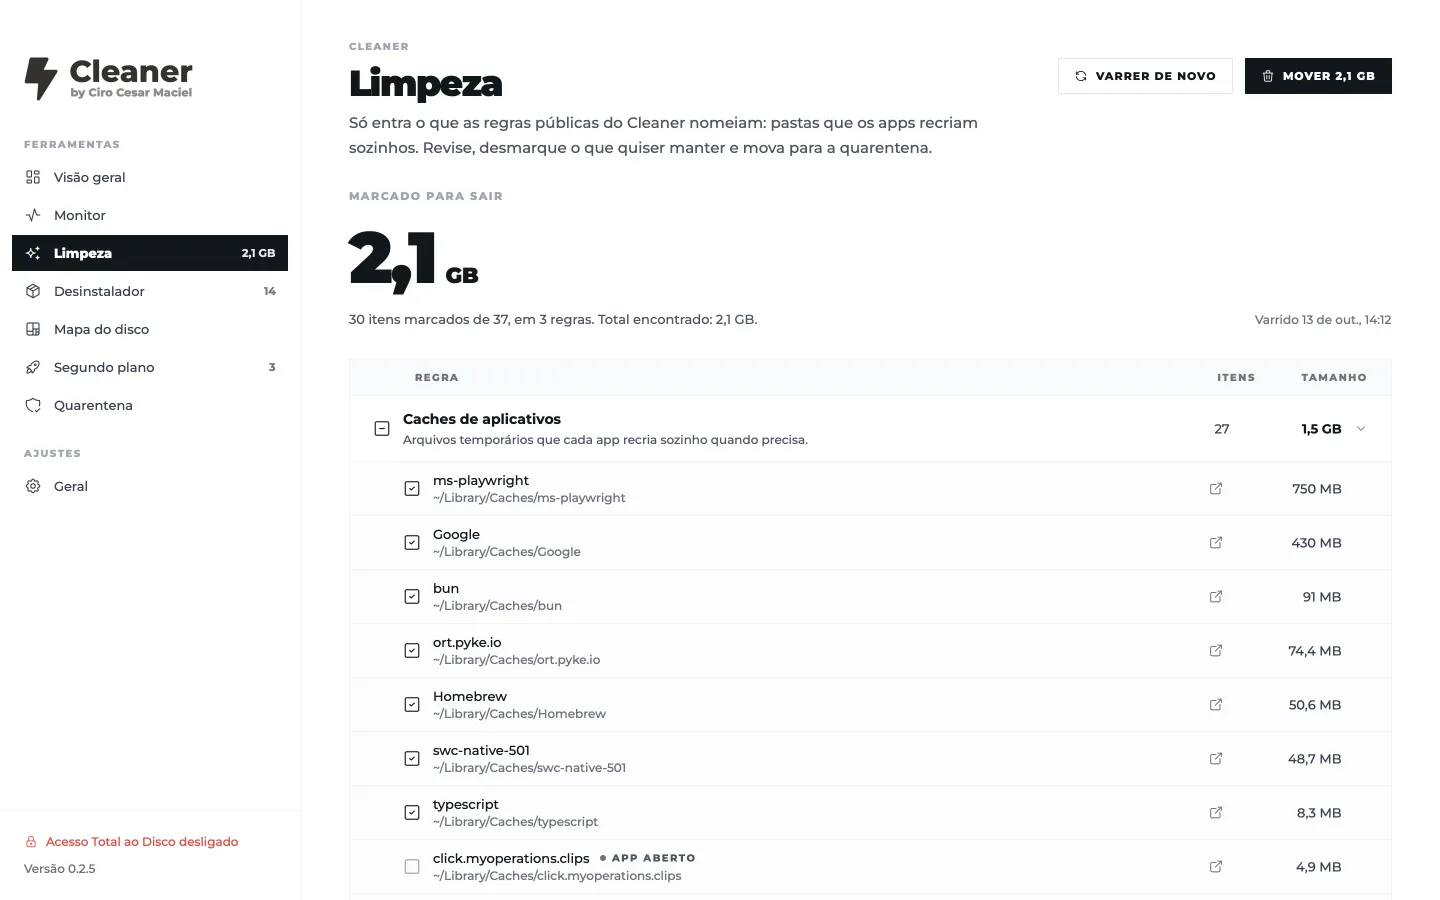
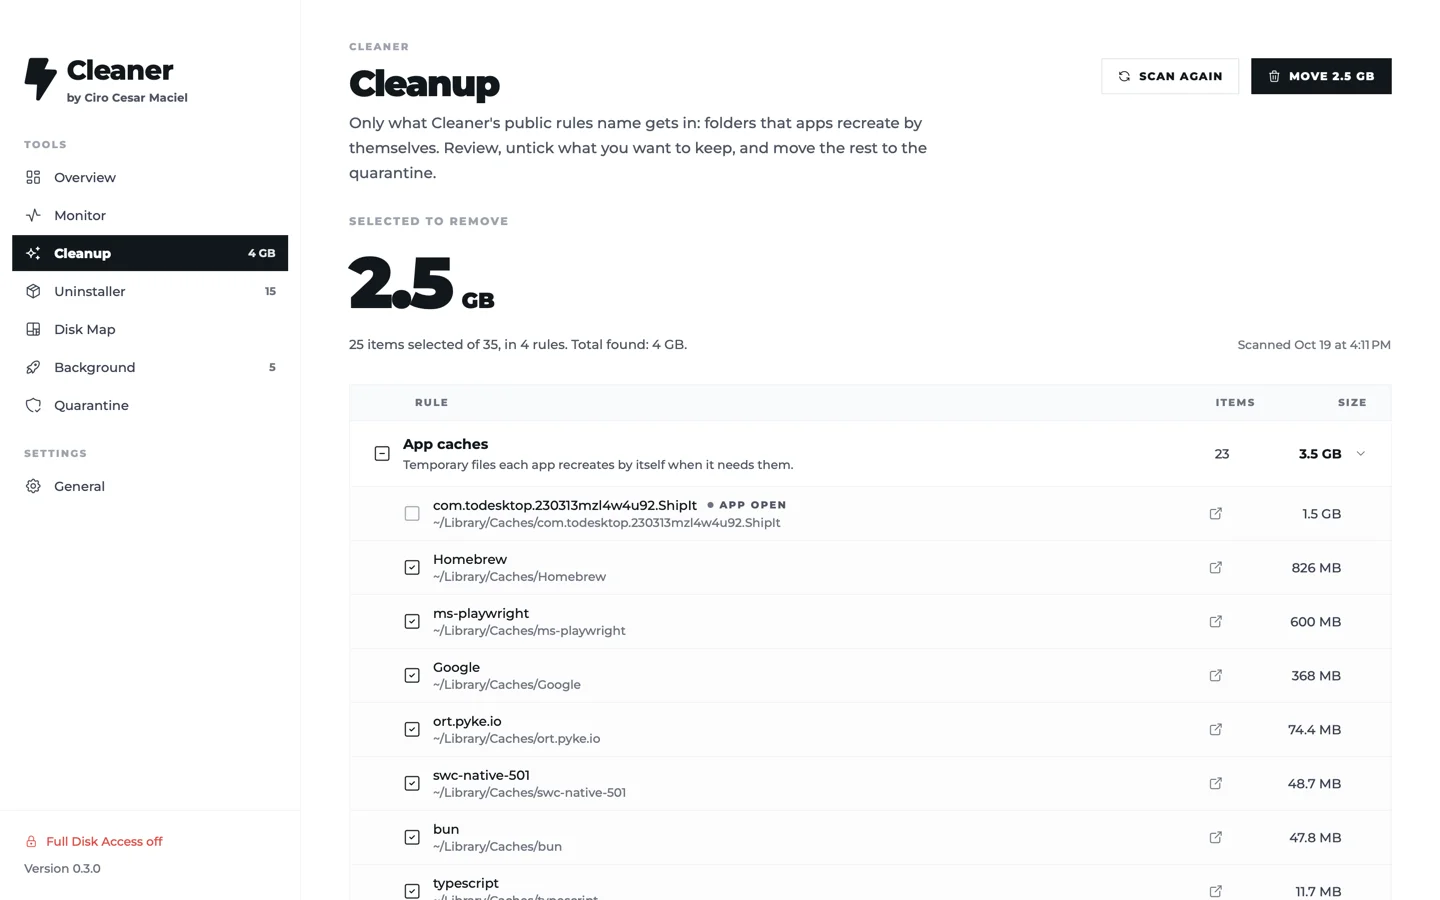
docs: english captures in the readme, portuguese ones in docs/pt-BR, and the two-language rule

diff --git a/README.pt-BR.md b/README.pt-BR.md
@@ -6,7 +6,7 @@ Toda regra que ele usa para limpar está num arquivo que dá para ler, o [`rules
 
 [English](README.md)
 
-![Visão geral do Cleaner: 2,1 GB para liberar, uso do disco e as quatro ferramentas](docs/overview.webp)
+![Visão geral do Cleaner: 4 GB para liberar, uso do disco e as quatro ferramentas](docs/pt-BR/overview.webp)
 
 ## Instalar
 
@@ -31,7 +31,7 @@ Os limpadores conhecidos pedem que você confie num número de "lixo". O Cleaner
   - item do sistema (`EACCES`): pede a senha de administrador uma vez por ação, num pedido que diz o que vai fazer e com quais itens;
   - item protegido (`EPERM`, como Lixeira, Mail, contêineres sem Acesso Total ao Disco ou itens do SIP): nunca pede senha, porque senha não resolveria. O item fica no lugar, e o aviso leva aos Ajustes.
 
-![Limpeza: cada item, a regra que o encontrou e o tamanho](docs/cleanup.webp)
+![Limpeza: cada item, a regra que o encontrou e o tamanho](docs/pt-BR/cleanup.webp)
 
 ## O que ele faz
 
@@ -45,7 +45,7 @@ Os limpadores conhecidos pedem que você confie num número de "lixo". O Cleaner
 | Quarentena | Lotes com o caminho de origem; devolve com um clique; apaga sozinho depois de 7 dias |
 | Barra de menus | Processador, memória, rede, disco e bateria ao vivo, e quanto dá para liberar agora |
 
-<img src="docs/menubar.webp" alt="O painel da barra de menus: processador, memória, rede, disco e bateria" width="300">
+<img src="docs/pt-BR/menubar.webp" alt="O painel da barra de menus: processador, memória, rede, disco e bateria" width="300">
 
 ## A desinstalação completa
 
@@ -94,7 +94,7 @@ dist/Cleaner.app/Contents/MacOS/Cleaner --screenshots /tmp/shots        # captur
 ## Limites
 
 - Só Apple Silicon e macOS 14 ou mais novo.
-- A interface está em português.
+- A interface está em inglês e em português do Brasil, conforme o idioma do Mac.
 - Itens protegidos pelo SIP ficam onde estão. É o macOS funcionando como deve.
 - Não procura duplicados, não faz varredura de malware e não atualiza apps.
 

diff --git a/AGENTS.md b/AGENTS.md
@@ -11,6 +11,7 @@ Cleaner is a native macOS app in Swift and SwiftUI. It is built by `scripts/buil
 | `Sources/Helper/` | The privileged helper (a launchd daemon inside the app bundle) |
 | `Sources/Shared/` | The XPC protocol both sides compile |
 | `rules.json` | The cleanup rules. Copied into the app at build time |
+| `Resources/*.lproj/` | The interface text: `Localizable.strings` (keys are the English text) and `InfoPlist.strings` |
 | `scripts/` | Build, local install, signing identity, asset regeneration |
 | `scripts/release/` | Packing the `.dmg` and publishing it; used by `.github/workflows/release.yml` |
 
@@ -28,4 +29,4 @@ dist/Cleaner.app/Contents/MacOS/Cleaner --uninstall-test
 - Every removal goes to the quarantine, and every removal button is a 3-second hold.
 - `EACCES` asks for the password once per action; `EPERM` never asks, because a password can't fix it.
 - The bundle identifiers (`click.ciromaciel.cleaner`, `click.ciromaciel.cleaner.helper`) never change: macOS ties Full Disk Access to them.
-- The interface text is in Portuguese; code, comments and file names are in English.
+- Every user-facing string exists in English and Brazilian Portuguese (`Resources/en.lproj` / `Resources/pt-BR.lproj`, read through `L("English text")` in `Engine/L10n.swift`); a change that adds text adds both. A rule in `rules.json` carries `title`/`why` in Portuguese and `titleEn`/`whyEn` in English. The app follows the Mac: Portuguese when the first preferred language is Portuguese, English otherwise. Code, comments and file names are in English.

diff --git a/README.md b/README.md
@@ -6,7 +6,7 @@ Every rule it cleans by is in one readable file, [`rules.json`](rules.json). Not
 
 [Português](README.pt-BR.md)
 
-![Cleaner overview: 2.1 GB that can be freed, disk usage and the four tools](docs/overview.webp)
+![Cleaner overview: 4 GB that can be freed, disk usage and the four tools](docs/overview.webp)
 
 ## Install
 
@@ -47,13 +47,15 @@ The well-known cleaners ask you to trust a "junk" number. Cleaner shows you how 
 
 ## The rules
 
-Eight rules today. Each one says what it is, why it is safe, how risky it is and whether it is on by default:
+Eight rules today. Each one says what it is, why it is safe (in Brazilian Portuguese and in English), how risky it is and whether it is on by default:
 
 ```json
 {
   "id": "app-caches",
   "title": "Caches de aplicativos",
   "why": "Arquivos temporários que cada app recria sozinho quando precisa.",
+  "titleEn": "App caches",
+  "whyEn": "Temporary files each app recreates by itself when it needs them.",
   "risk": "low",
   "mode": "children",
   "paths": ["~/Library/Caches"],
@@ -91,7 +93,7 @@ dist/Cleaner.app/Contents/MacOS/Cleaner --screenshots /tmp/shots        # captur
 ## Limits
 
 - Apple Silicon and macOS 14 or newer only.
-- The interface is in Portuguese for now.
+- The interface is in English and Brazilian Portuguese, following the Mac's language.
 - Items protected by System Integrity Protection stay where they are. That is macOS working as intended.
 - No duplicate finder, no malware scan and no app updater.
 

diff --git a/CONTRIBUTING.md b/CONTRIBUTING.md
@@ -7,7 +7,7 @@ Thanks for helping. Cleaner deletes files on other people's Macs, so the bar is 
 [`rules.json`](rules.json) decides what Cleaner offers to clear. A good rule change:
 
 - names a folder that an app **recreates by itself**, or a file the person clearly no longer needs;
-- says in `why` what the folder is, in one sentence a non-developer understands;
+- says in `why` what the folder is, in one sentence a non-developer understands, in Brazilian Portuguese, with the English in `titleEn` and `whyEn`;
 - sets `risk` honestly (`low`, `medium`, `high`) and `defaultOn: false` for anything above `low`;
 - adds to `exclude` anything inside that must survive.
 
@@ -29,6 +29,7 @@ House rules:
 - No network code. Cleaner never talks to the internet, and that is a promise in the README. A link the person clicks opens in their browser; that is the only way out.
 - Anything that removes goes through the quarantine. Nothing is deleted in place.
 - Every removal asks for the 3-second hold.
+- Every user-facing string exists in English and Brazilian Portuguese (`Resources/en.lproj` and `Resources/pt-BR.lproj`, through `L("English text")`); a change that adds text adds both. Check it with `-AppleLanguages "(en)"` and `-AppleLanguages "(pt-BR)"`.
 
 ## Reporting a bug
 
